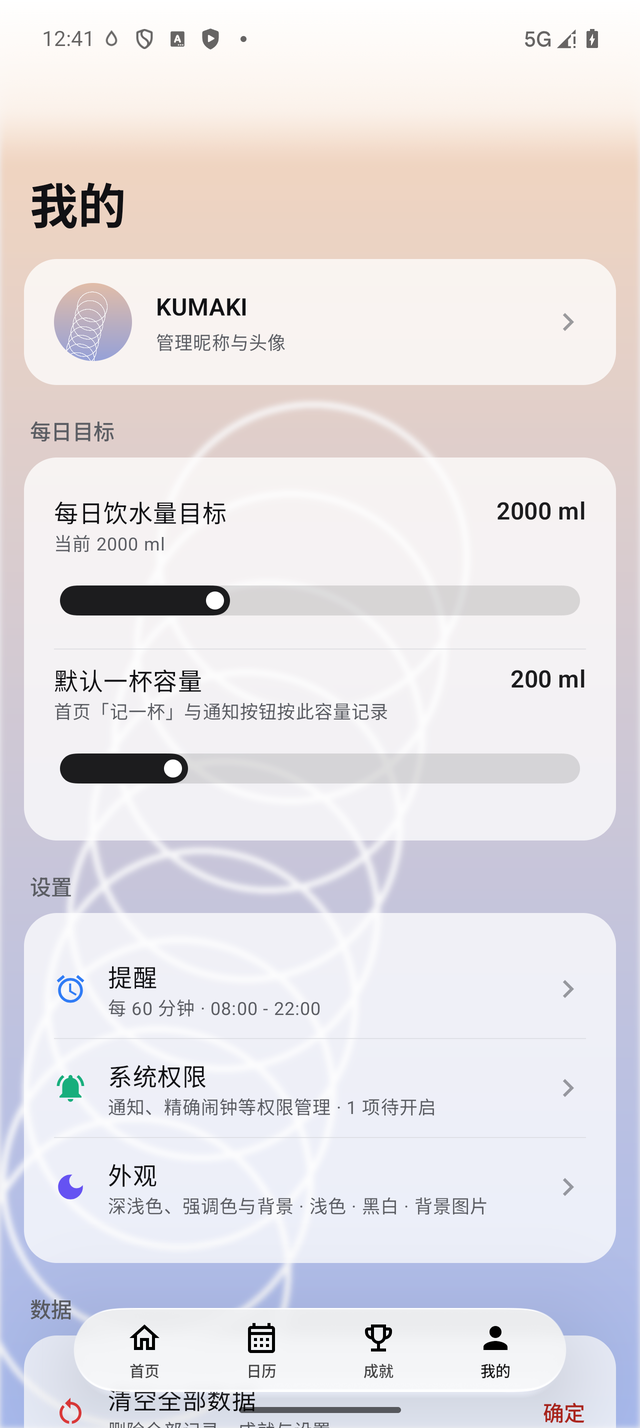
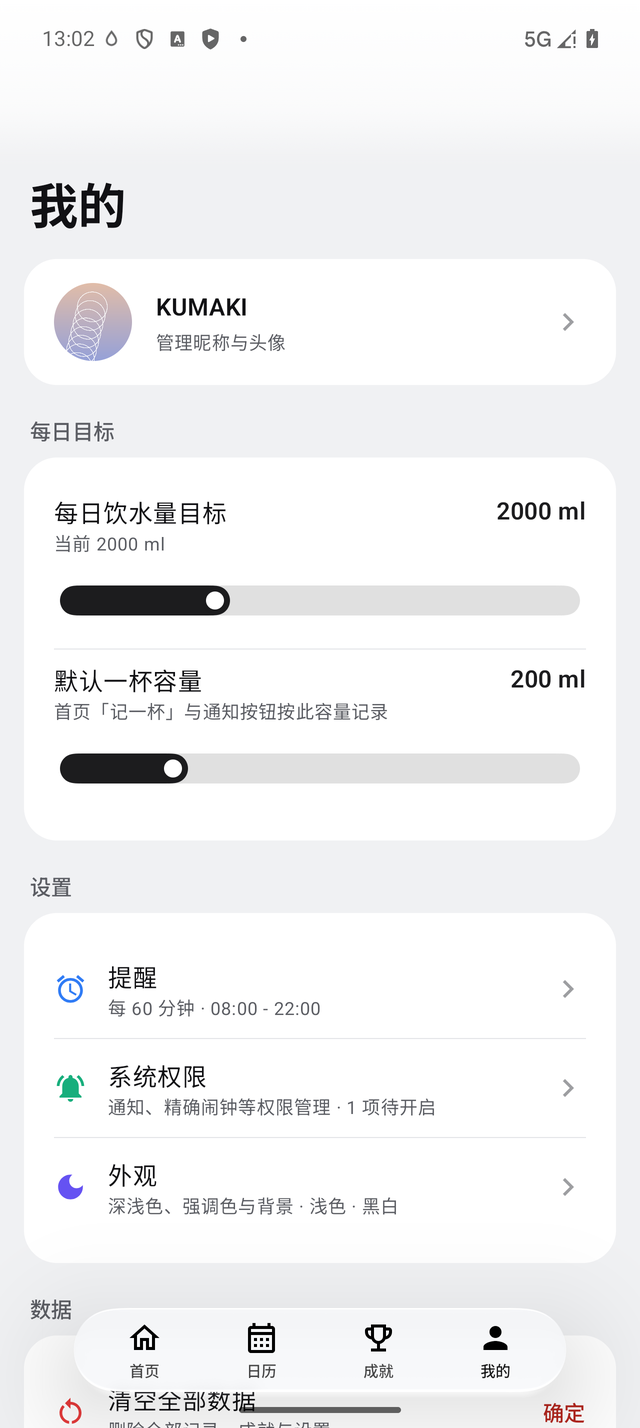
docs: README 截图改用默认无背景外观

Changed region(s): [[0.0, 0.0616, 1.0, 1.0], [0.0938, 0.0, 0.1562, 0.0308]]

diff --git a/README.md b/README.md
@@ -16,7 +16,7 @@
 | **成就** | **我的** |
 | <img src="docs/screenshots/achievements.png" width="300" alt="成就" /> | <img src="docs/screenshots/mine.png" width="300" alt="我的" /> |
 
-> 外观设置：深/浅色、强调色模板与自定义取色、背景图片、遮罩不透明度 / 高斯模糊 / 容器不透明度调节
+> 界面预览为默认外观（浅色 · 未设置自定义背景）；外观设置可切换深/浅色、强调色模板与自定义取色、背景图片、遮罩不透明度 / 高斯模糊 / 容器不透明度
 
 <img src="docs/screenshots/appearance.png" width="300" alt="外观设置" />
 
